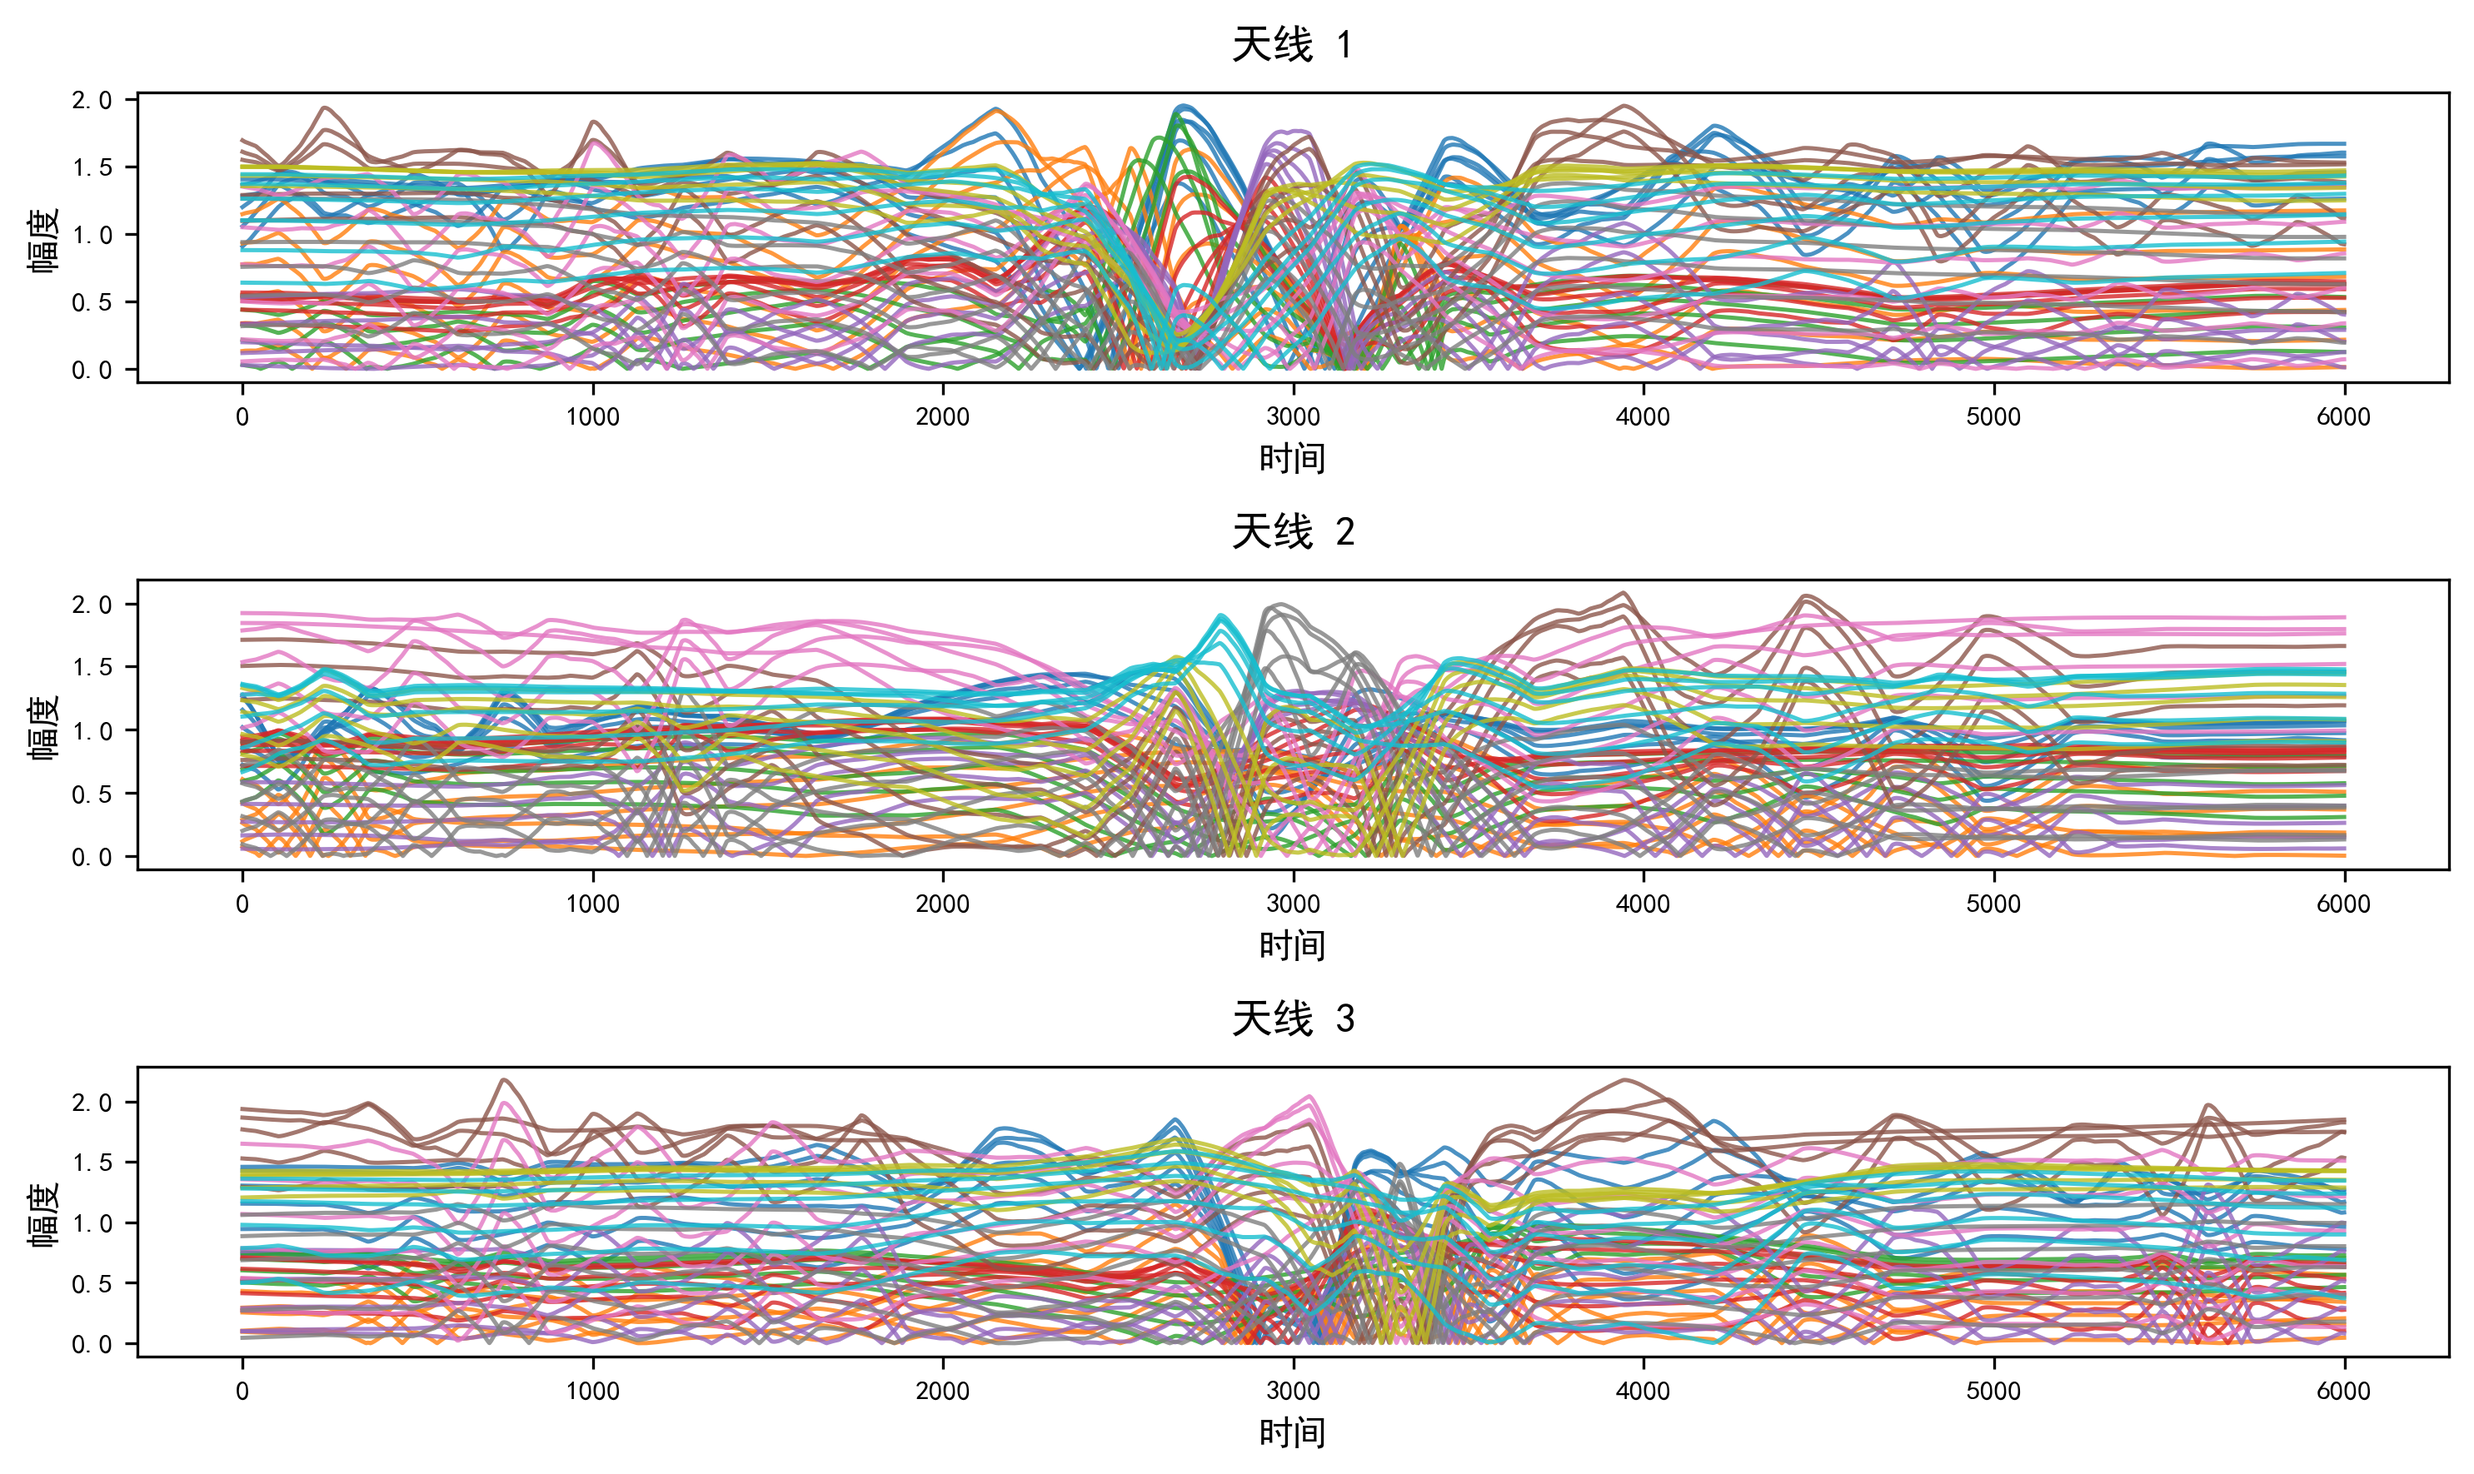
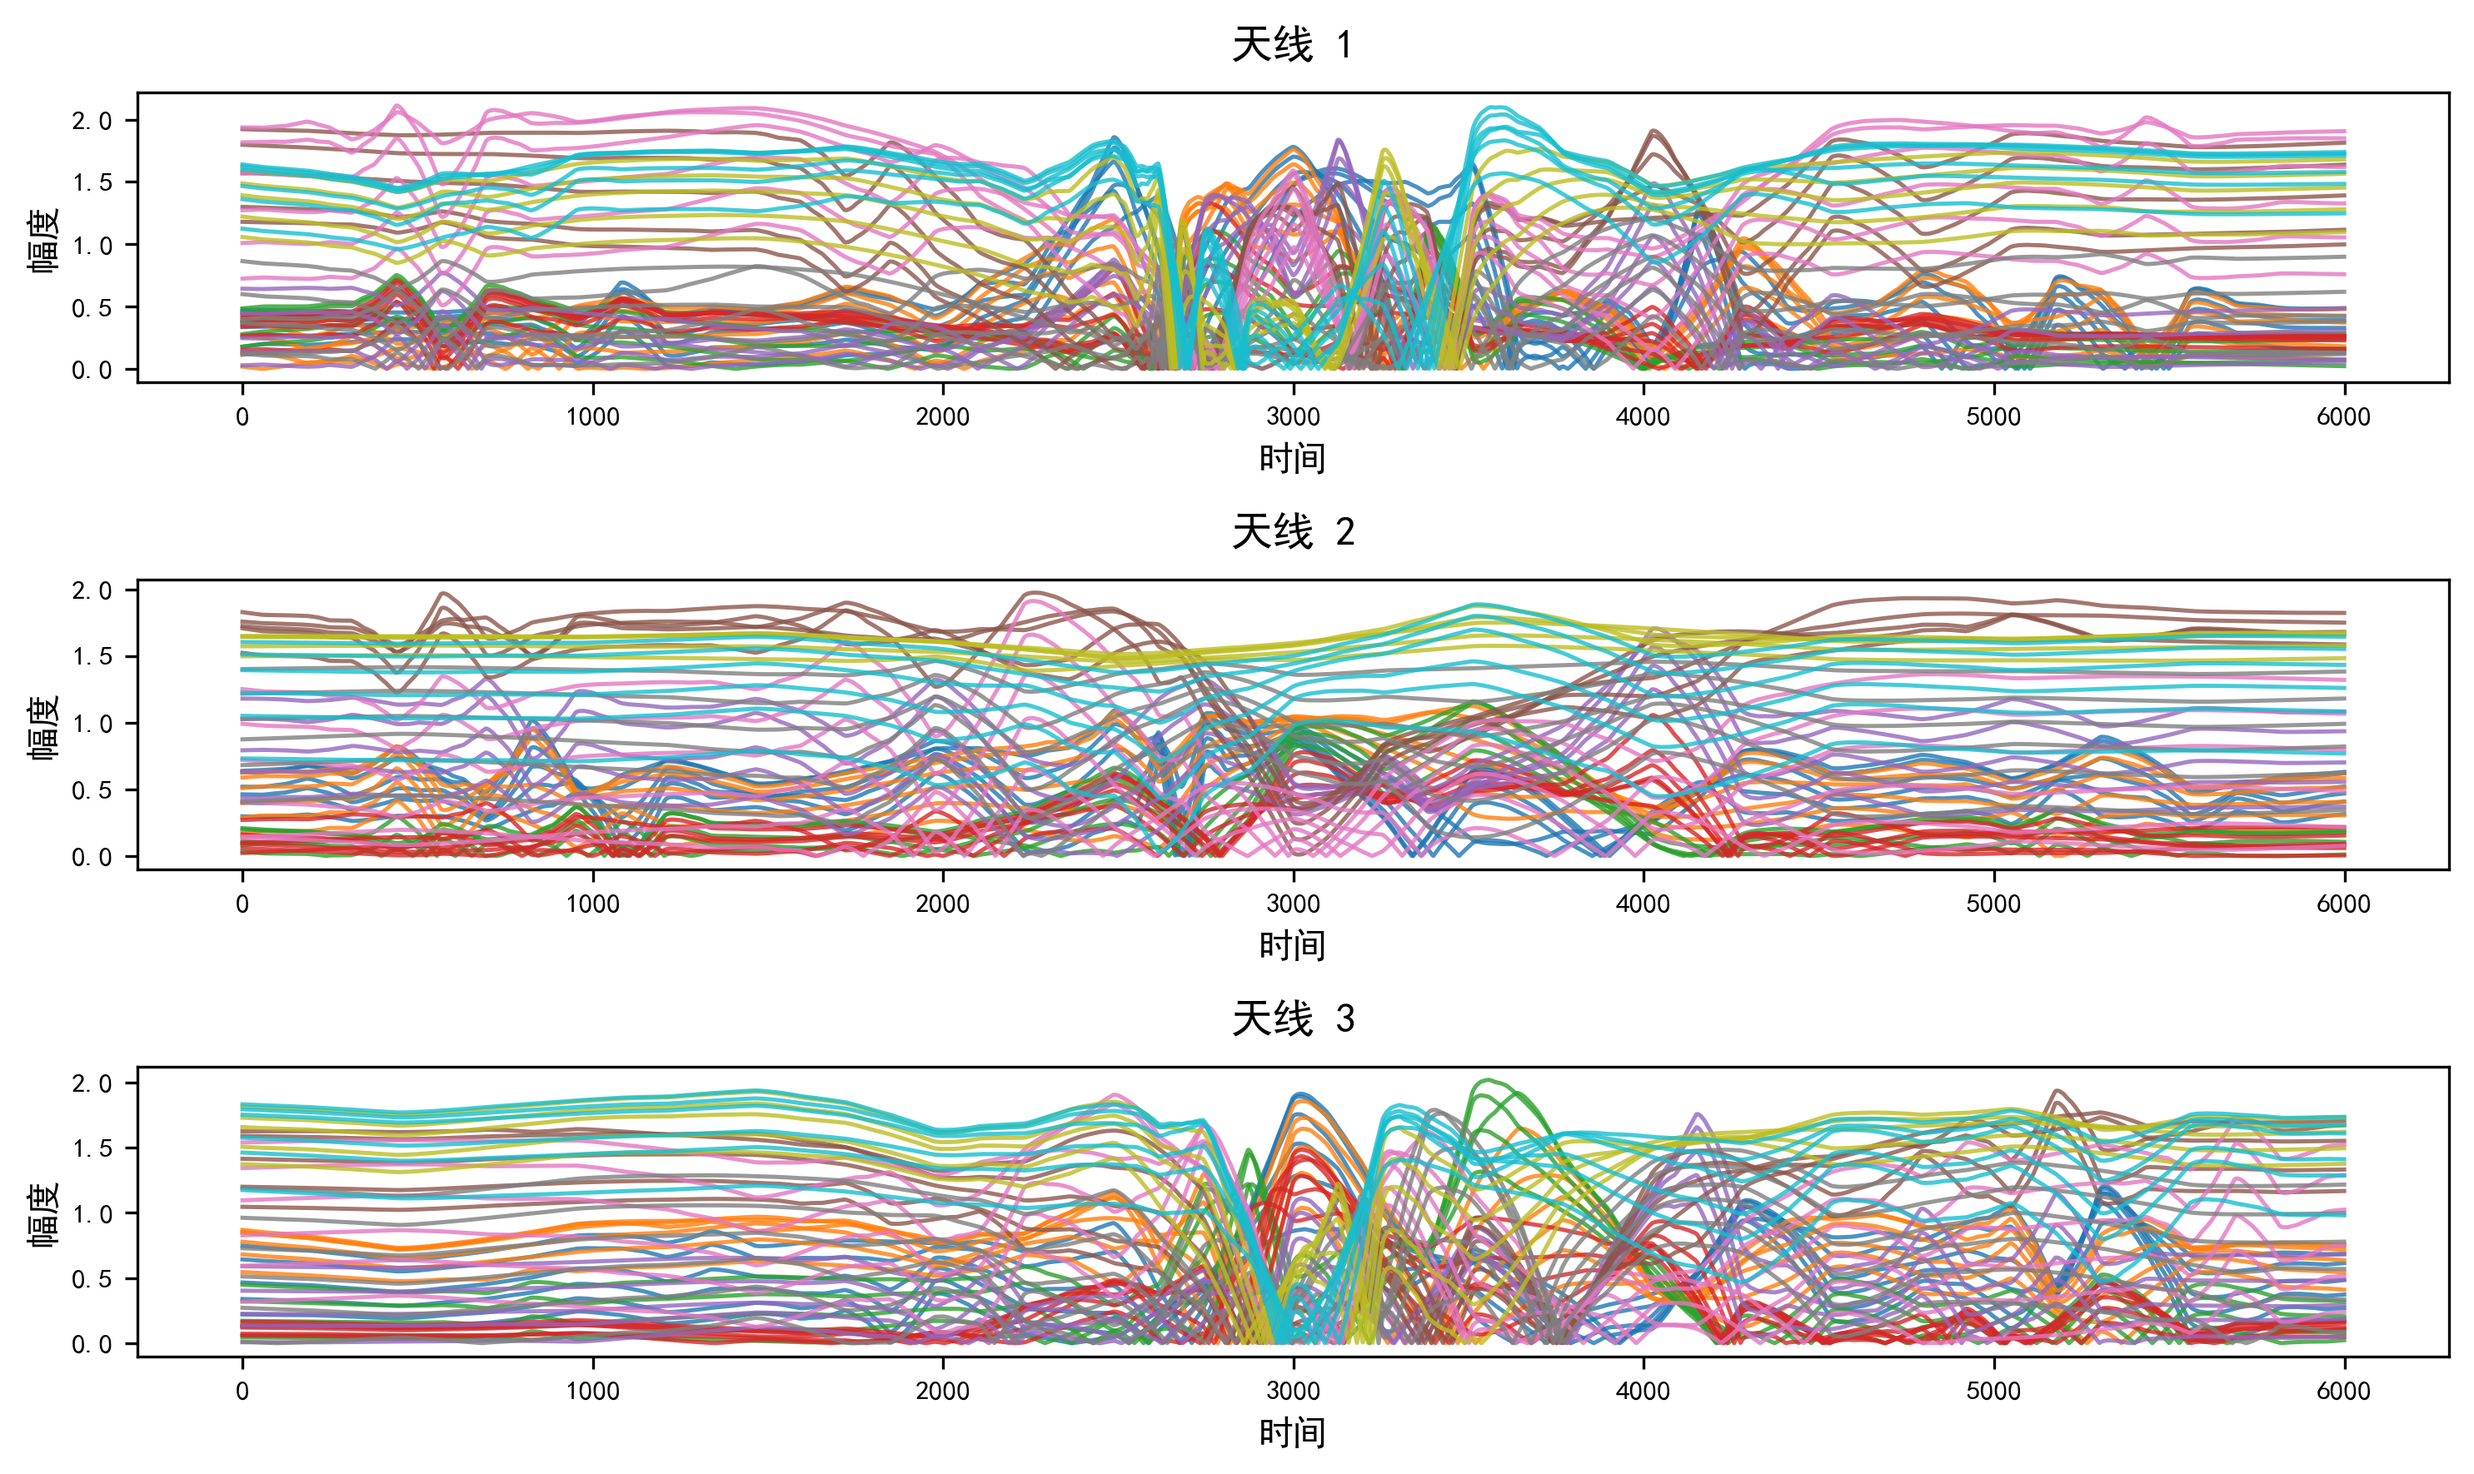
研究内容一优化

diff --git a/pre_process/CSIProcess1.py b/pre_process/CSIProcess1.py
@@ -46,7 +46,7 @@ zh_font = create_zh_font(12)
 print(f"已配置中文字体，默认大小为12")
 
 
-def plot_csi_amplitude(data_path='../data/source_env0_env1_data.pt', sample_index=132, #132
+def plot_csi_amplitude(data_path='../data/source_env0_env1_data.pt', sample_index=56, #132
                        save_path='./preprocess/sample_amplitude_plot.png'):
     """
     绘制CSI数据的幅度图
@@ -103,10 +103,11 @@ def plot_csi_amplitude(data_path='../data/source_env0_env1_data.pt', sample_inde
     print(f"图像已保存到: {save_path}")
 
 
-def plot_csi_time_frequency(data_path='../data/source_env0_env1_data.pt', sample_index=132,
+def plot_csi_time_frequency(data_path='../data/source_env0_env1_data.pt', sample_index=56,
                             save_path='./preprocess/sample_time_frequency_plot.png'):
     """
     绘制CSI数据的时频图（使用STFT短时傅里叶变换）
+    时频图特点：两边静止时为蓝色（低能量），中间步态行走时出现热力图（高能量）
     
     参数:
     data_path (str): CSI数据文件路径
@@ -121,6 +122,9 @@ def plot_csi_time_frequency(data_path='../data/source_env0_env1_data.pt', sample
     # 计算复数CSI数据的幅度
     amplitude_data = torch.abs(sample_data)
     
+    print(f"样本数据形状: {sample_data.shape}")
+    print(f"幅度数据形状: {amplitude_data.shape}")
+    
     # 绘图设置
     fig_size = (14, 10)
     
@@ -130,11 +134,14 @@ def plot_csi_time_frequency(data_path='../data/source_env0_env1_data.pt', sample
     num_antennas = amplitude_data.shape[0]
     time_steps = amplitude_data.shape[2]
     
-    # STFT参数设置
+    # STFT参数设置 - 根据数据长度自适应调整
     # nperseg: 每段的长度，影响频率分辨率
     # noverlap: 重叠长度，影响时间分辨率（75%重叠）
-    nperseg = 512
-    noverlap = 480  # 75%重叠，使能量分布更聚焦
+    nperseg = min(256, time_steps // 10)  # 减小窗口以获得更好的时间分辨率
+    noverlap = int(nperseg * 0.75)  # 75%重叠，使能量分布更聚焦
+    
+    print(f"时间步数: {time_steps}")
+    print(f"STFT参数 - nperseg: {nperseg}, noverlap: {noverlap}")
     
     for dim in range(3):
         ax = axes[dim]
@@ -143,28 +150,49 @@ def plot_csi_time_frequency(data_path='../data/source_env0_env1_data.pt', sample
         # 对该天线的所有子载波数据求平均，得到一维时间序列
         signal_data = torch.mean(amplitude_data[:, dim, :], dim=0).numpy()
         
-        # 计算短时傅里叶变换（STFT）
+        # 去除直流分量，使静止时能量更低
+        signal_data = signal_data - np.mean(signal_data)
+        
+        print(f"天线 {dim + 1} 信号数据范围: [{signal_data.min():.4f}, {signal_data.max():.4f}]")
+        
+        # 计算短时傅里叶变换（STFT），使用汉宁窗减少边界效应
         frequencies, times, Zxx = signal.stft(signal_data, 
-                                               fs=1.0,  # 采样频率（归一化）
+                                               fs=1000.0,  # 采样频率设置为1000Hz
+                                               window='hann',  # 使用汉宁窗减少频谱泄漏
                                                nperseg=nperseg, 
-                                               noverlap=noverlap)
+                                               noverlap=noverlap,
+                                               boundary=None)  # 不填充边界，减少边界效应
         
         # 计算功率谱密度（取幅度的平方）
-        magnitude = np.abs(Zxx)
+        magnitude = np.abs(Zxx) ** 2  # 使用功率谱而非幅度谱
+        
+        print(f"天线 {dim + 1} STFT结果 - 频率范围: {len(frequencies)}, 时间点: {len(times)}")
+        print(f"天线 {dim + 1} 功率范围: [{magnitude.min():.4f}, {magnitude.max():.4f}]")
+        
+        # 对数尺度显示，增强对比度
+        magnitude_db = 10 * np.log10(magnitude + 1e-10)  # 转换为dB，避免log(0)
+        
+        # 动态范围压缩：限制显示范围以突出步态活动
+        vmin = np.percentile(magnitude_db, 5)  # 下限设为5%分位数
+        vmax = np.percentile(magnitude_db, 95)  # 上限设为95%分位数
+        
+        print(f"天线 {dim + 1} 显示范围: [{vmin:.2f}, {vmax:.2f}] dB")
         
         # 绘制时频图
-        im = ax.pcolormesh(times, frequencies, magnitude, 
+        im = ax.pcolormesh(times, frequencies, magnitude_db, 
                           shading='gouraud', 
-                          cmap='jet')  # 使用jet颜色映射，能量高的区域显示为暖色
+                          cmap='jet',  # 使用jet颜色映射，能量高的区域显示为暖色
+                          vmin=vmin,
+                          vmax=vmax)
         
         # 添加颜色条
         cbar = plt.colorbar(im, ax=ax)
-        cbar.set_label('幅度', fontproperties=create_zh_font(10))
+        cbar.set_label('功率 (dB)', fontproperties=create_zh_font(10))
         
         # 设置标题和标签
         ax.set_title(f'天线 {dim + 1} 时频图', fontsize=12, pad=10, fontproperties=create_zh_font(12))
         ax.set_xlabel('时间', fontsize=10, fontproperties=create_zh_font(10))
-        ax.set_ylabel('频率分量', fontsize=10, fontproperties=create_zh_font(10))
+        ax.set_ylabel('频率分量 (Hz)', fontsize=10, fontproperties=create_zh_font(10))
         ax.tick_params(axis='both', which='major', labelsize=8)
         
         # 为坐标轴刻度标签设置中文字体
